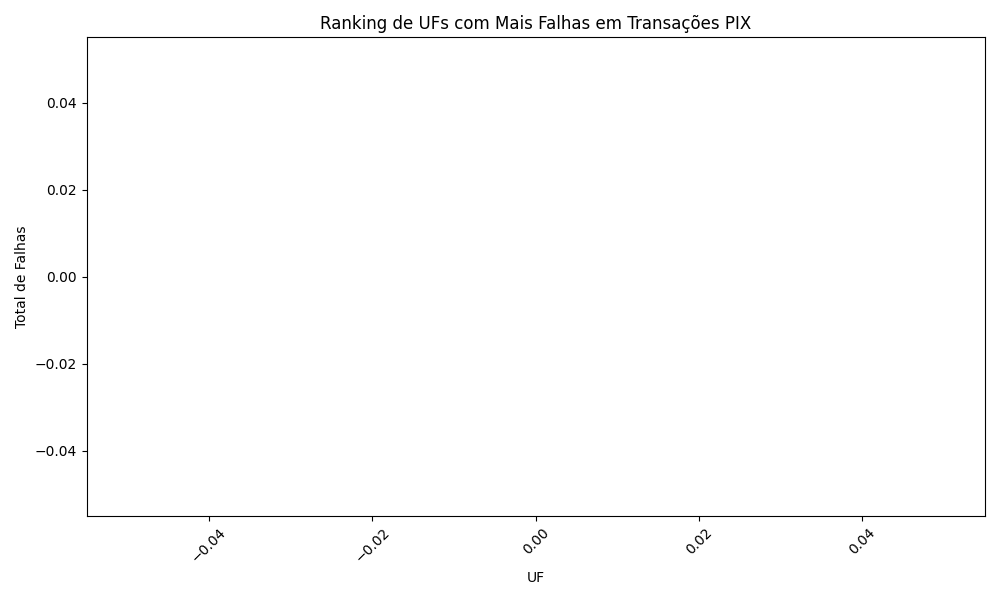
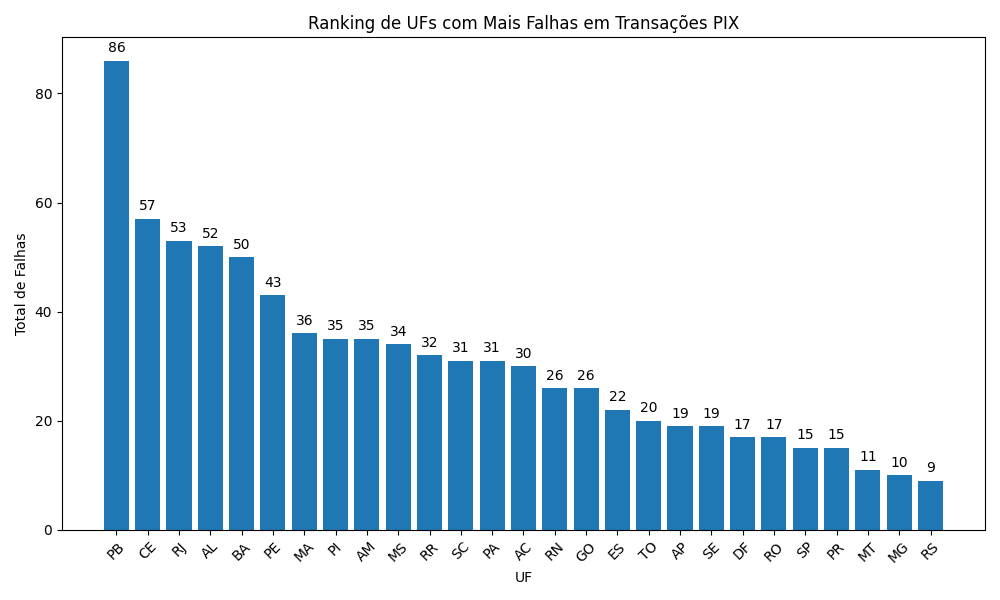
adicao da pasta validation

Changed region(s): [[0.0, 0.06, 0.961, 0.93], [0.31, 0.03, 0.744, 0.06], [0.031, 0.69, 0.062, 0.72]]

diff --git a/scripts/gold_ranking_falhas_por_uf.py b/scripts/gold_ranking_falhas_por_uf.py
@@ -5,7 +5,7 @@ import matplotlib.pyplot as plt
 gold_path = 'data/gold/'
 output_path = 'deliverables/output/'
 
-# Leitura do arquivo com falhas por UF
+# Leitura do arquivo gold_falhas_por_uf.csv
 df = pd.read_csv(gold_path + 'gold_falhas_por_uf.csv')
 
 # Ordenar decrescente pelo total de falhas
@@ -17,12 +17,17 @@ df_ranked.to_csv(gold_path + 'gold_ranking_falhas_por_uf.csv', index=False)
 # Gerar gráfico de barras do ranking
 plt.figure(figsize=(10,6))
 plt.bar(df_ranked['uf'], df_ranked['total_falhas'])
+
+# Adicionar valores acima das barras
+for i, valor in enumerate(df_ranked['total_falhas']):
+    plt.text(i, valor + 1, str(valor), ha='center', va='bottom')
+
 plt.title('Ranking de UFs com Mais Falhas em Transações PIX')
 plt.xlabel('UF')
 plt.ylabel('Total de Falhas')
 plt.xticks(rotation=45)
 plt.tight_layout()
-plt.savefig(f'{output_path}ranking_falhas_por_uf.png')
+plt.savefig(output_path + 'ranking_falhas_por_uf.png')
 plt.show()
 
 print("Ranking de falhas por UF gerado e salvo com sucesso!")

diff --git a/scripts/gold_falhas_temporais.py b/scripts/gold_falhas_temporais.py
@@ -27,6 +27,11 @@ plt.title('Falhas PIX por Dia da Semana')
 plt.xlabel('Dia da Semana')
 plt.ylabel('Quantidade de Falhas')
 plt.grid(axis='y')
+
+# Adiciona valores acima das barras
+for i, valor in enumerate(falhas_por_dia['qtd_falhas']):
+    plt.text(i, valor + 5, str(valor), ha='center', va='bottom')
+
 plt.savefig(output_path + 'falhas_por_dia.png')
 plt.show()
 

diff --git a/README.md b/README.md
@@ -1,3 +1,16 @@
+## Sumário
+
+- [Objetivo do Case](#objetivo-do-case)
+- [Estrutura do Projeto](#estrutura-do-projeto)
+- [Arquitetura do Pipeline](#arquitetura-da-informacao)
+- [Como Executar o Projeto](#como-executar-o-projeto)
+- [Principais Métricas e KPIs](#principais-métricas-kpis)
+- [Exemplo de Análise Exploratória](#exemplo-de-analise-exploratoria)
+- [Plano de Integração de Dados Externos (NPS)](#plano-de-integracao-de-dados-externos-nps)
+- [Sugestões de Governança e Melhoria](#sugestões-tecnicas-e-de-governança)
+- [Status do Projeto](#status-do-projeto)
+- [Referências](#referências)
+
 # Will Bank – Case Técnico: Senior Analytics Engineer
 
 **Autor:** Washington (Kim)
@@ -32,14 +45,19 @@ willbank-analytics-case/
 │   │   ├── bronze_core_pix.csv
 │   │   └── bronze_customer.csv
 │   ├── silver/                       # Dados enriquecidos, cruzamentos e análises intermediárias
-│   │   ├── silver_pix_transacoes.csv
+│   │   ├── silver_inconsistencias.csv
 │   │   ├── silver_pix_falhou_registro.csv
-│   │   └── silver_inconsistencias.csv
+│   │   ├── silver_pix_falhou_registro_com_uf.csv
+│   │   └── silver_pix_transacoes.csv
 │   └── gold/                         # Dados agregados e KPIs finais
 │       ├── gold_clientes_por_uf.csv
 │       ├── gold_estatisticas_idade.csv
+│       ├── gold_falhas_por_dia.csv
+│       ├── gold_falhas_por_hora.csv
 │       ├── gold_falhas_por_uf.csv
-│       ├── gold_taxa_sucesso_pix.csv
+│       ├── gold_ranking_falhas_por_uf.csv
+│       ├── gold_taxa_sucesso_pix_percentual.csv
+│       ├── gold_taxa_sucesso_pix_quantidade.csv
 │       ├── gold_total_pix_por_tipo.csv
 │       ├── gold_total_pix_por_uf.csv
 │       ├── gold_transacoes_suspeitas.csv
@@ -52,9 +70,16 @@ willbank-analytics-case/
 │   ├── docs/                       # Documentos auxiliares e suporte
 │   └── output/                     # Gráficos, relatórios e imagens exportadas
 │       ├── falhas_por_dia.png
-│       └── falhas_por_hora.png
+│       └── ranking_falhas_por_uf.png
 │
 ├── scripts/                        # Scripts organizados por camada do pipeline
+│   ├── validation/
+│   │   ├── testa_falhas_por_uf.py
+│   │   ├── verifica_e_roda_pipeline.py
+│   │   ├── verifica_surrogate_key_cliente.py
+│   │   ├── verifica_surrogate_key_falhas.py
+│   │   ├── verifica_uf_falhas.py
+│   │   └── verifica_uf_nos_bronze.py
 │   ├── bronze_transform.py         # Tratamento inicial e padronização (Bronze)
 │   ├── silver_transform.py         # Enriquecimento e união de dados (Silver)
 │   ├── silver_inconsistencias.py  # Detecção de inconsistências na camada Silver
@@ -63,8 +88,8 @@ willbank-analytics-case/
 │   ├── gold_kpis_demografia.py    # KPIs demográficos (idade, UF) (Gold)
 │   ├── gold_kpis_estrategicos.py  # KPIs estratégicos (falhas, suspeitas) (Gold)
 │   ├── gold_falhas_temporais.py   # Análise temporal de falhas (Gold)
-│   ├── teste_falhas.py             # Scripts auxiliares para testes
-│   └── teste_status_uf.py          # Script auxiliar para validar status e UF
+│   ├── gold_ranking_falhas_por_uf.py # Ranking de falhas por UF (Gold)
+│   └── teste.ipynb                 # Scripts auxiliares para testes
 │
 ├── requirements.txt               # Dependências Python do projeto
 ├── README.md                     # Documentação principal do projeto
@@ -352,6 +377,7 @@ Para replicar o ambiente e executar o pipeline, siga os passos abaixo:
         python scripts/gold_kpis_demografia.py
         python scripts/gold_kpis_estrategicos.py
         python scripts/gold_falhas_temporais.py
+        python scripts/gold_ranking_falhas_por_uf.py
         ```
 
     Após a execução, os resultados e as saídas processadas estarão disponíveis nas respectivas pastas (`data/bronze`, `data/silver`, `data/gold`, e `deliverables/output`).
